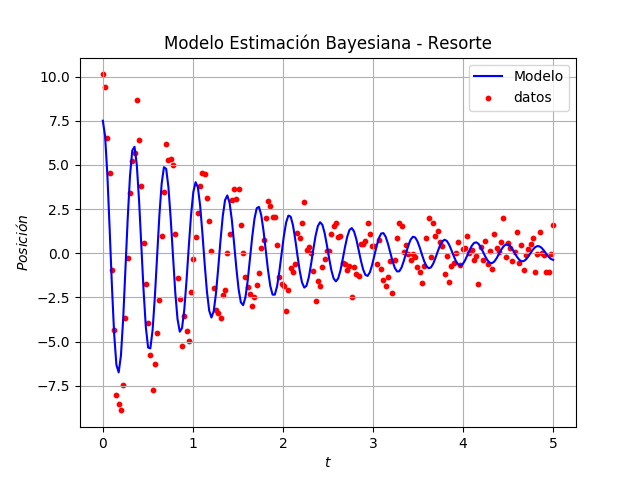
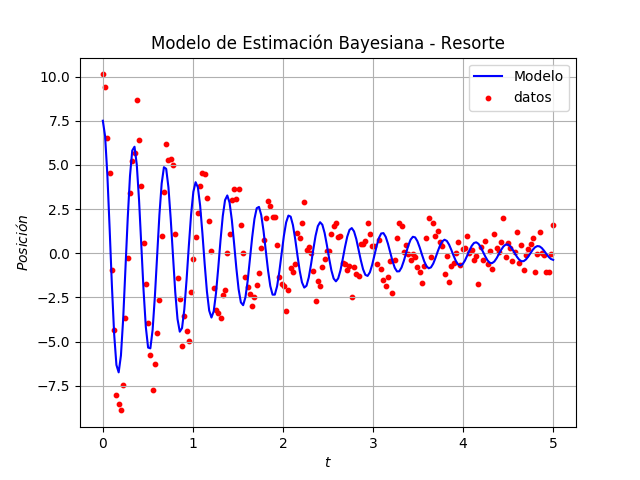
Estimación Bayesiana

Changed region(s): [[0.2188, 0.0625, 0.7812, 0.125]]

diff --git a/S7C3/CendalesLuis_S7C3.py b/S7C3/CendalesLuis_S7C3.py
@@ -14,11 +14,9 @@ spring=np.genfromtxt("resorte.dat")
 tdata=spring[:,0]
 xdata=spring[:,1]
 
-
 # 2) Implemente un algoritmo que le permita, por medio de estimacion bayesiana de parametros, encontrar los parametros correspondientes a los datos d. Para esto debe:
 
 # 2a.) definir una funcion que reciba los parametros que se busca estimar y los datos de tiempo y retorne el modelo  
-
 
 def x(t,a,gamma,omega):
     return a*np.exp(-gamma*t)*np.cos(omega*t)
@@ -105,7 +103,7 @@ xbest=x(tdata,a,g,o)
 plt.figure()
 plt.scatter(tdata,xdata,s=10,c='r',label="datos")
 plt.plot(tdata,xbest,c='b',label="Modelo")
-plt.title('Modelo Estimación Bayesiana - Resorte')
+plt.title('Modelo de Estimación Bayesiana - Resorte')
 plt.xlabel('$t$')
 plt.ylabel('$Posición$')
 plt.legend()
